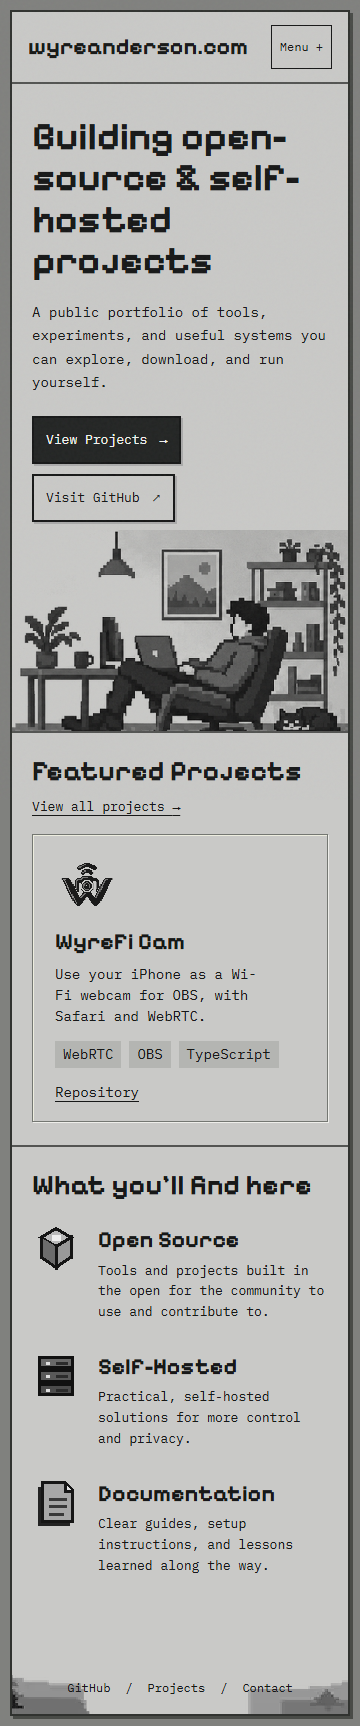
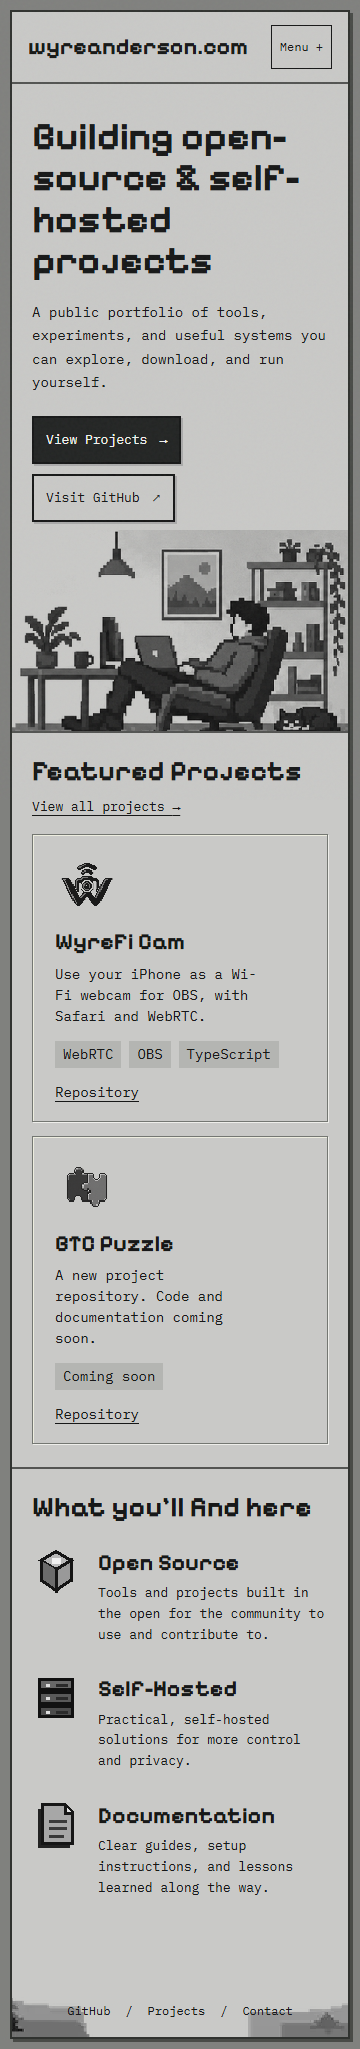
feat: add BTC Puzzle repository with pixel art and coming-soon status

diff --git a/tests/site.spec.ts b/tests/site.spec.ts
@@ -3,7 +3,7 @@ import AxeBuilder from "@axe-core/playwright";
 import { projects } from "../src/content/projects";
 import { featuredProjects, safeUrl } from "../src/lib/projects";
 test("content and URL safety", () => {
-  expect(featuredProjects(projects)).toHaveLength(1);
+  expect(featuredProjects(projects)).toHaveLength(2);
   expect(featuredProjects([])).toEqual([]);
   for (const url of [
     "",
@@ -50,12 +50,27 @@ for (const [name, width, height] of [
       "Building open-source & self-hosted projects",
     );
     await expect(page.locator(".placeholder")).toHaveCount(0);
-    await expect(page.locator(".project-card")).toHaveCount(1);
-    await expect(page.locator(".project-card h3")).toHaveText("WyreFi Cam");
-    await expect(page.locator(".project-card a")).toHaveAttribute(
+    await expect(page.locator(".project-card")).toHaveCount(2);
+    await expect(page.locator(".project-card h3")).toHaveText([
+      "WyreFi Cam",
+      "BTC Puzzle",
+    ]);
+    await expect(
+      page.locator(".project-card").first().locator("a"),
+    ).toHaveAttribute("href", "https://github.com/Wyreanderson/WyreFi-Cam");
+    const btcCard = page.locator(".project-card").nth(1);
+    await expect(btcCard.locator("p")).toContainText("coming soon");
+    await expect(btcCard.locator("a")).toHaveAttribute(
       "href",
-      "https://github.com/Wyreanderson/WyreFi-Cam",
+      "https://github.com/Wyreanderson/-projeto-BTC-Puzzle",
     );
+    await expect(btcCard.locator("img")).toHaveAttribute(
+      "src",
+      "/assets/projects/btc-puzzle-pixel.png",
+    );
+    await btcCard
+      .locator("img")
+      .evaluate((image: HTMLImageElement) => image.decode());
     await expect(page.locator('a[href="#"]')).toHaveCount(0);
     await expect(
       page.locator('.hero-actions a[href="https://github.com/Wyreanderson"]'),

diff --git a/src/content/projects.ts b/src/content/projects.ts
@@ -31,4 +31,19 @@ export const projects: Project[] = [
     repoUrl: "https://github.com/Wyreanderson/WyreFi-Cam",
     coverImage: "/assets/projects/wyrefi-cam-pixel.png",
   },
+  {
+    id: "btc-puzzle",
+    slug: "btc-puzzle",
+    title: "BTC Puzzle",
+    shortDescription:
+      "A new project repository. Code and documentation coming soon.",
+    tags: ["Coming soon"],
+    // The public repository is currently empty and has no license or stack.
+    // Do not infer open-source licensing, hosting, or features from its name.
+    categories: [],
+    status: "published",
+    featured: true,
+    repoUrl: "https://github.com/Wyreanderson/-projeto-BTC-Puzzle",
+    coverImage: "/assets/projects/btc-puzzle-pixel.png",
+  },
 ];

diff --git a/docs/QA.md b/docs/QA.md
@@ -70,3 +70,13 @@ Por indicação do proprietário, Contact no rodapé aponta para https://www.ins
 ## P8.1 — verificações remotas
 
 O relatório atual de publicação está em [P8.1.md](P8.1.md), incluindo o incidente de classificação do primeiro deployment como Production, os bloqueios da revisão automática e a Preview ainda pendente. A URL Vercel existente passou na verificação pública desktop/mobile; evidências em P8.1-public-check.json. CI remota inicial passou. Domínio e DNS não foram alterados.
+
+## BTC Puzzle — 21/10/2026
+
+Pedido do proprietário: adicionar https://github.com/Wyreanderson/-projeto-BTC-Puzzle. API GitHub confirmou público, size 0; endpoint contents respondeu “This repository is empty”, README 404, sem descrição, linguagem ou licença. Cartão BTC Puzzle adicionado com texto neutro Coming soon, apenas ligação Repository e nenhuma tecnologia/categoria ou funcionalidade presumida. Published indica visibilidade do cartão/repositório, não uma aplicação lançada.
+
+Arte original gerada com ferramenta integrada image_gen conforme PROJECT_ART.md: duas peças de puzzle em tons de cinza, PNG transparente, public/assets/projects/btc-puzzle-pixel.png, exibição 64×64. Prompt e origem registados em PROJECT_ART.md. Nenhum ficheiro do repositório BTC foi alterado.
+
+Executados pnpm lint, pnpm typecheck, pnpm test e pnpm build: aprovados, 9 testes, sem violações axe, erros de consola ou overflow nas quatro larguras. Testes atualizados verificam os dois cartões, os destinos reais e o carregamento da imagem BTC. Capturas desktop/tablet/mobile/360 atualizadas; desktop revisto visualmente. Verificador remoto ajustado para aceitar vários cartões, sem o executar contra produção nesta alteração.
+
+Alteração guardada localmente, sem push/deploy. A versão pública Vercel não recebe o novo cartão até publicação autorizada.

diff --git a/docs/PROJECT_ART.md b/docs/PROJECT_ART.md
@@ -28,3 +28,7 @@ Aplicar a cada novo projeto adicionado a este portfólio. A preferência foi def
 ## WyreFi Cam
 
 Referência original fornecida pelo proprietário: docs/brand-references/wyrefi-cam-original.png. Preservar W, câmara/lente central e arcos Wi-Fi. Adaptação para o portfólio; a marca original e o repositório WyreFi-Cam não são alterados por este fluxo.
+
+## BTC Puzzle
+
+Repositório fornecido pelo proprietário: https://github.com/Wyreanderson/-projeto-BTC-Puzzle. Em 21/10/2026, a API GitHub confirmou repositório público vazio, sem README, stack ou licença. Arte original: duas peças de puzzle encaixadas, em cinzas, sem presumir funcionalidades financeiras ou técnicas. Ferramenta integrada image_gen; prompt final: duas peças de puzzle, silhueta compacta, pixel art monocromática, fundo transparente, margens de 15%, legível a 64×64 px, sem texto, moedas, marcas, brilho ou gradientes. Destino: public/assets/projects/btc-puzzle-pixel.png.

diff --git a/AGENTS.md b/AGENTS.md
@@ -26,3 +26,5 @@ This block is written and re-added by `next dev` — verify at `node_modules/nex
 ## Imagens dos projetos
 
 Para cada novo projeto no portfólio, seguir docs/PROJECT_ART.md: adaptar a logo existente com identidade preservada, ou gerar arte original quando não houver imagem fornecida. Pixel art monocromática, PNG transparente quadrado, margem uniforme e exibição a 64×64 px. Guardar em public/assets/projects e configurar coverImage. Rever o cartão real antes do commit. Não modificar outros repositórios nem fazer push remoto por este procedimento.
+
+- BTC Puzzle autorizado pelo proprietário em 21/10/2026. Repositório público ainda vazio: cartão Coming soon, sem tecnologias, funcionalidades ou licença presumidas.
